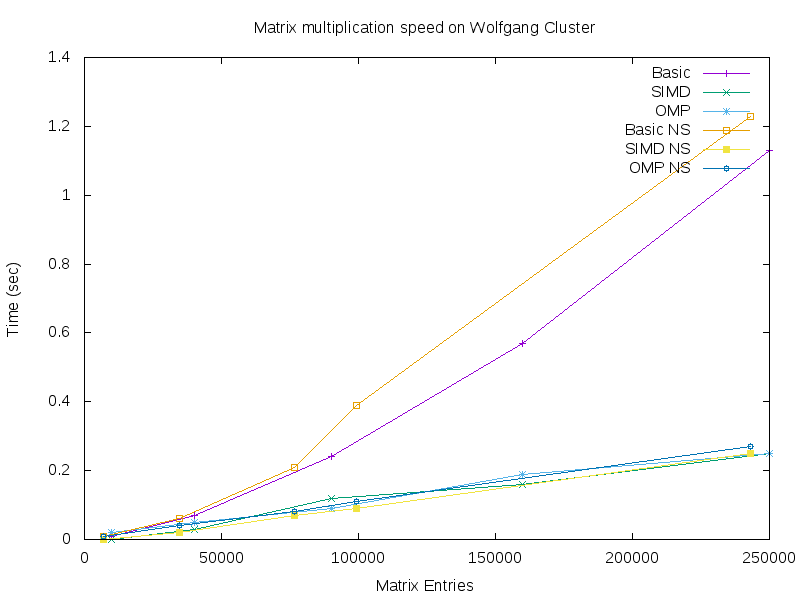
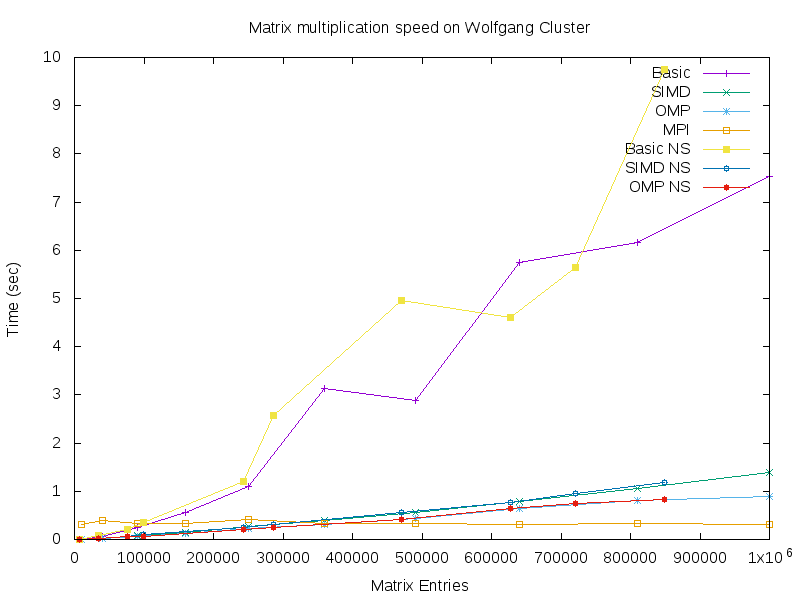
made a number of bug fixes. Also increased sample size of data. Current model for MPI not actually functional

diff --git a/automation.c b/automation.c
@@ -35,7 +35,7 @@ int main(){
   sprintf(graphMakeCMD, "gnuplot graph.gnu");
   graphData = fopen("Data/GraphData.txt", "a");
 
-  for(int i = 100; i <501 ; i+= 100){//change increment and max vals for graph changes
+  for(int i = 100; i <1001 ; i+= 100){//change increment and max vals for graph changes
 
      //state entry_size
      entry_size = i*i;
@@ -103,13 +103,19 @@ int main(){
 
      sprintf(fileName, "Data/mpiOp%d.txt", i);
      dataNodeOMP = fopen(fileName, "r");
-     fgets(pull_data, 10, dataNodeOMP);
+     fgets(pull_data, 150, dataNodeOMP);
+     fgets(pull_data, 150, dataNodeOMP);
+     fgets(pull_data, 150, dataNodeOMP);
+     fgets(pull_data, 150, dataNodeOMP); //done proxy messages
+     fgets(pull_data, 150, dataNodeOMP); //exit error status
+     fgets(pull_data, 10, dataNodeOMP); //real
+     //printf("%s\n", pull_data);
      fclose(dataNodeOMP);
     
      time_dataOmp = strtok(pull_data, " ");
      time_dataOmp = strtok(NULL, " ");
     
-     sprintf(insertCMD, "%s     ", time_dataOMP);
+     sprintf(insertCMD, "%s     ", time_dataOmp);
      fprintf(graphData, insertCMD);
     
      //printf("Starting Non-Sqaure runs\n");

diff --git a/mmult_mpi.c b/mmult_mpi.c
@@ -33,6 +33,8 @@ int main(int argc, char* argv[])
   int ansType;
   int toSend;
   double *sendBuff;
+  double *matrixAPtr;
+  double *matrixBPtr;
   int aRows, bRows, aCols, bCols, nRows, nCols;
   int MASTER = 0;
   MPI_Init(&argc, &argv);
@@ -58,8 +60,8 @@ int main(int argc, char* argv[])
     toSend = aRows/numprocs;// get number of rows to send to each process
     sendBuff = malloc(sizeof(double) * toSend * aCols);
     double *outPut = (double *) malloc(sizeof(double)* nCols);
-    aa = gen_matrix(aRows, aCols, matrixAPtr);
-    bb = gen_matrix(bRows, bCols, matrixBPtr);
+    aa = gen_matrix2(aRows, aCols, matrixAPtr);
+    bb = gen_matrix2(bRows, bCols, matrixBPtr);
     if (myid == MASTER) {
       // Master Code goes here
       cc1 = malloc(sizeof(double) * nRows * nCols);
